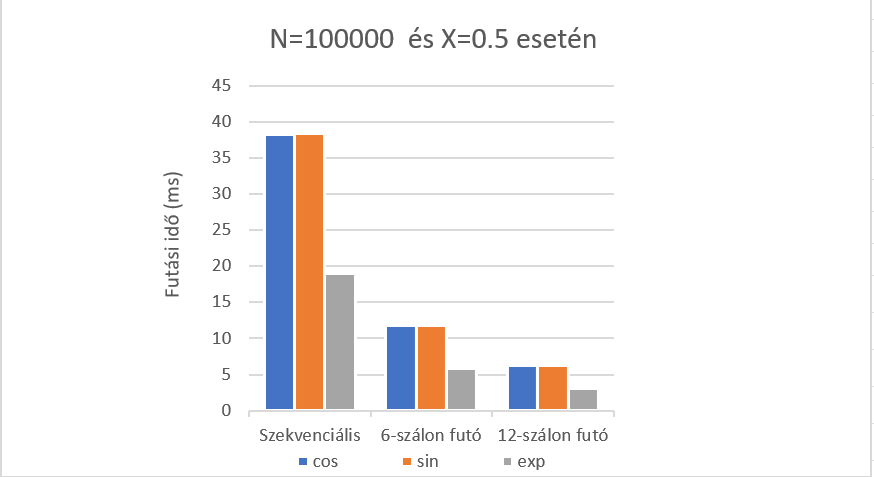
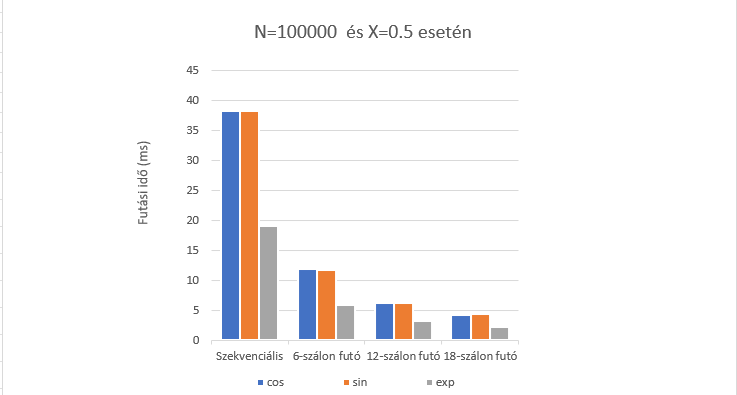
md change

diff --git a/README.md b/README.md
@@ -20,24 +20,35 @@ A program vár 2 paramétert: egy "n" értéket, és egy "threads_count" érték
         <th>Szekvenciális(ms)</th>
         <th>6 szálon(ms)</th>
         <th>12 szálon(ms)</th>
+        <th>18 szálon(ms)</th>
     <tr>
     <tr>
         <td>10000</td>
         <td>0.001000</td>
         <td>0.001000</td>
         <td>0.004000</td>
+        <td>0.002000</td>
     </tr>
      <tr>
         <td>100000</td>
         <td>0.006000</td>
         <td>0.002000</td>
         <td>0.002000</td>
+        <td>0.004000</td>
     </tr>
     <tr>
         <td>150000</td>
         <td>0.009000</td>
         <td>0.003000</td>
         <td>0.003000</td>
+        <td>0.009000</td>
+    </tr>
+        <tr>
+        <td>1500000</td>
+        <td>0.009000</td>
+        <td>0.003000</td>
+        <td>0.003000</td>
+        <td>0.009000</td>
     </tr>
 </table>
 
